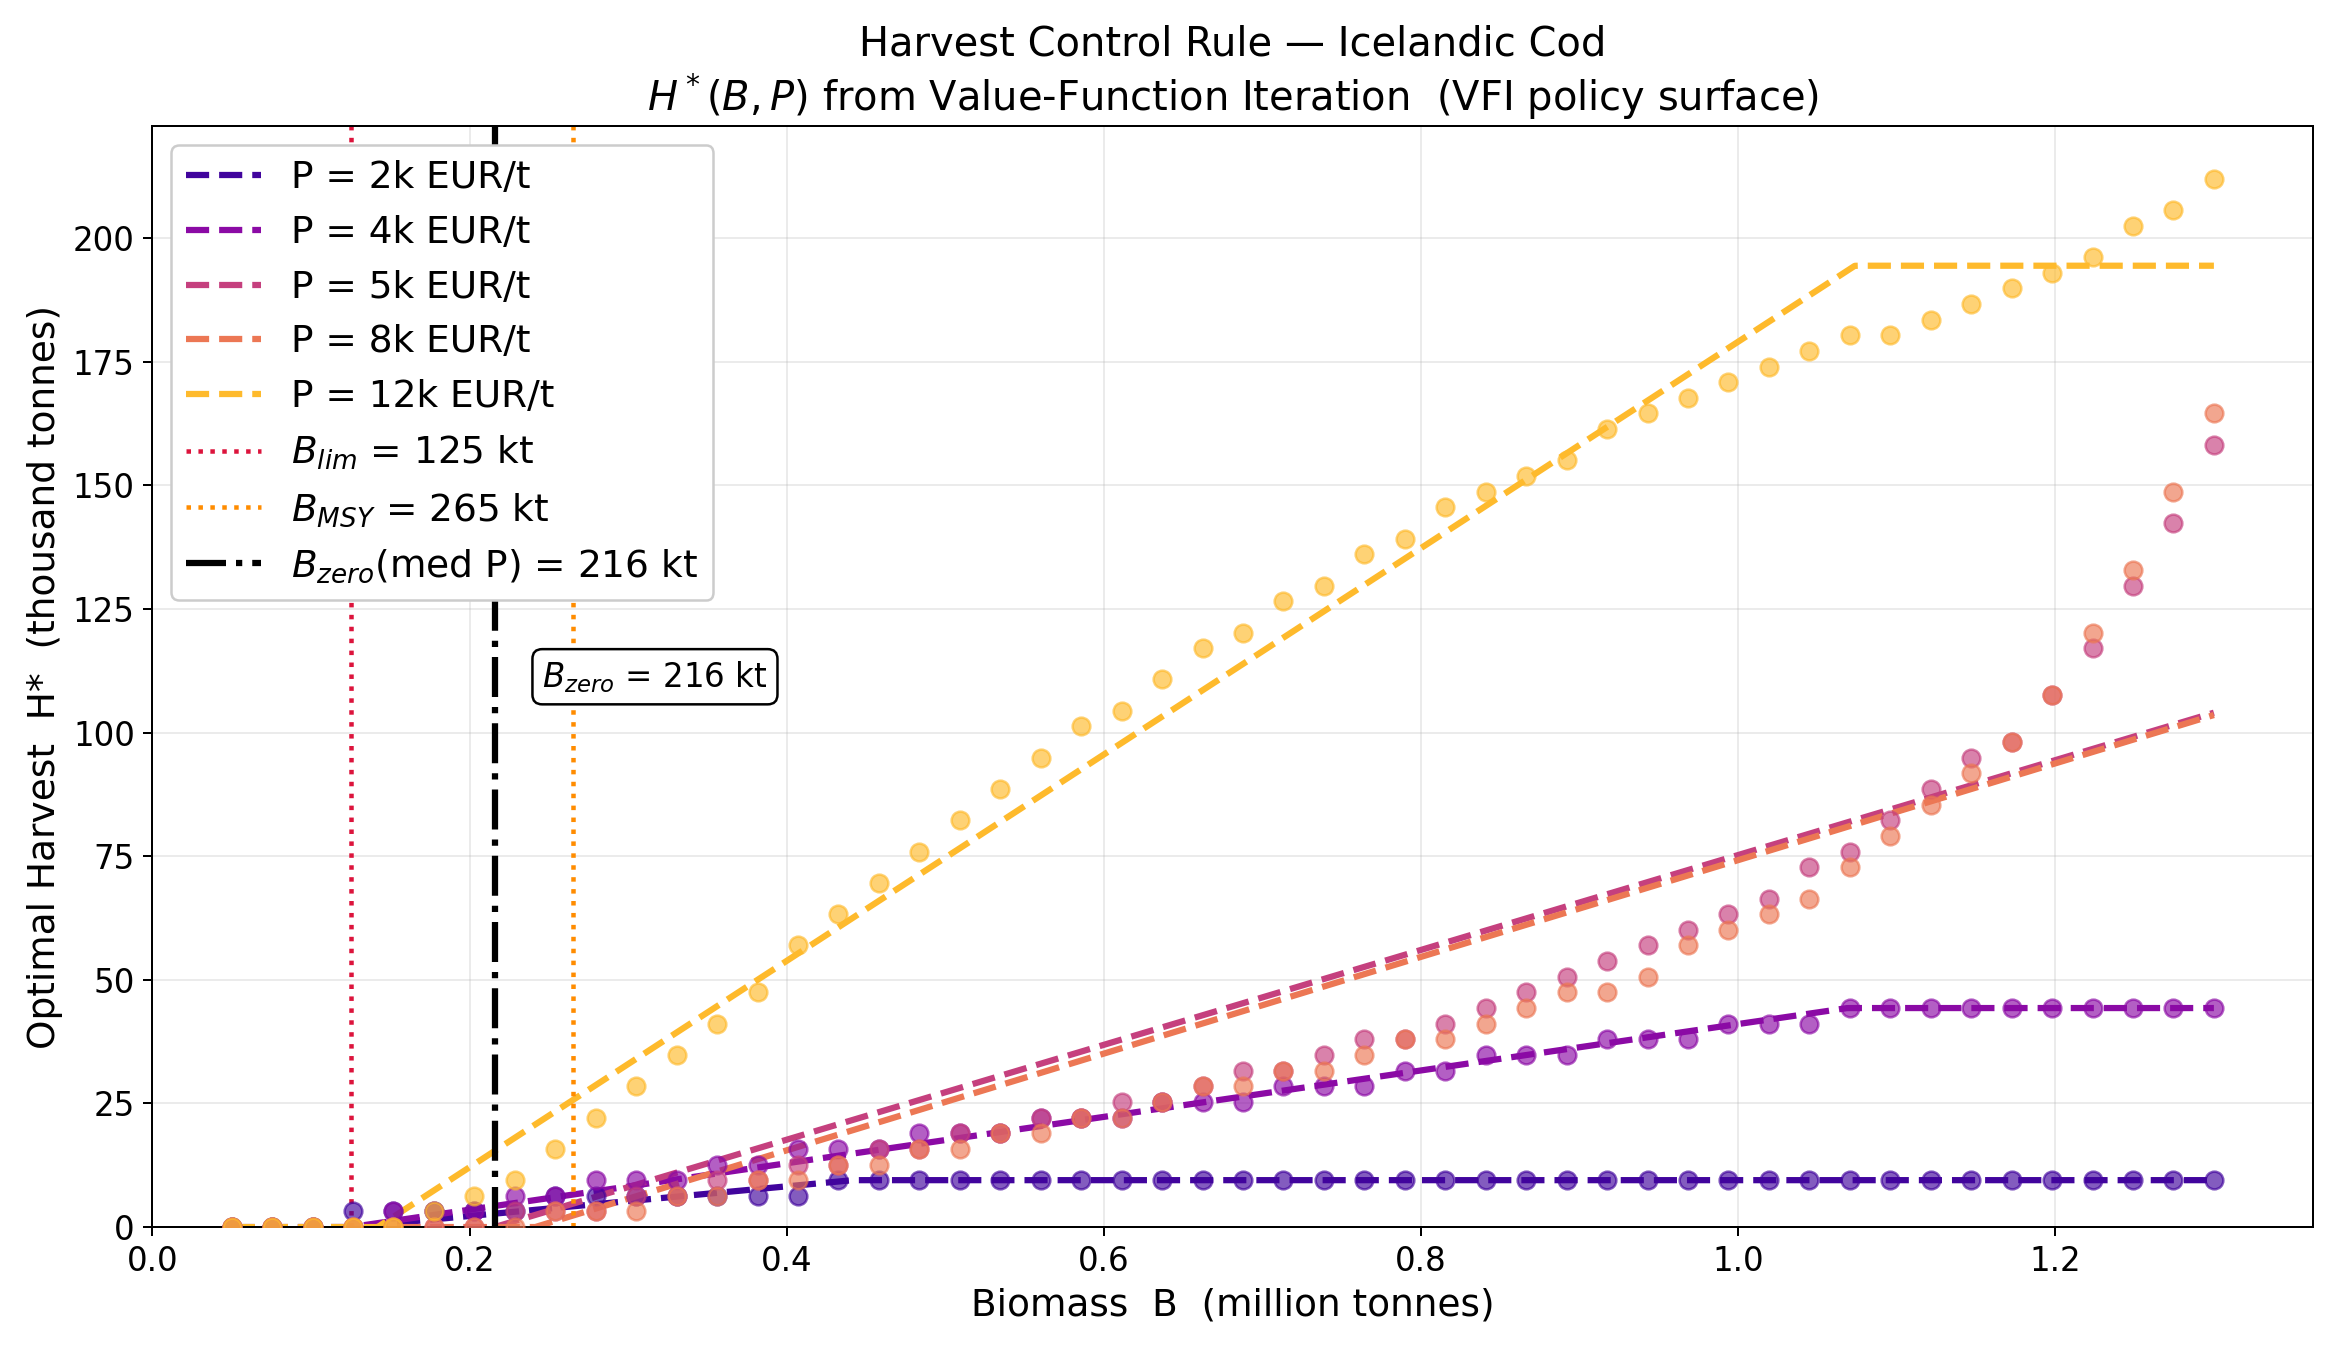
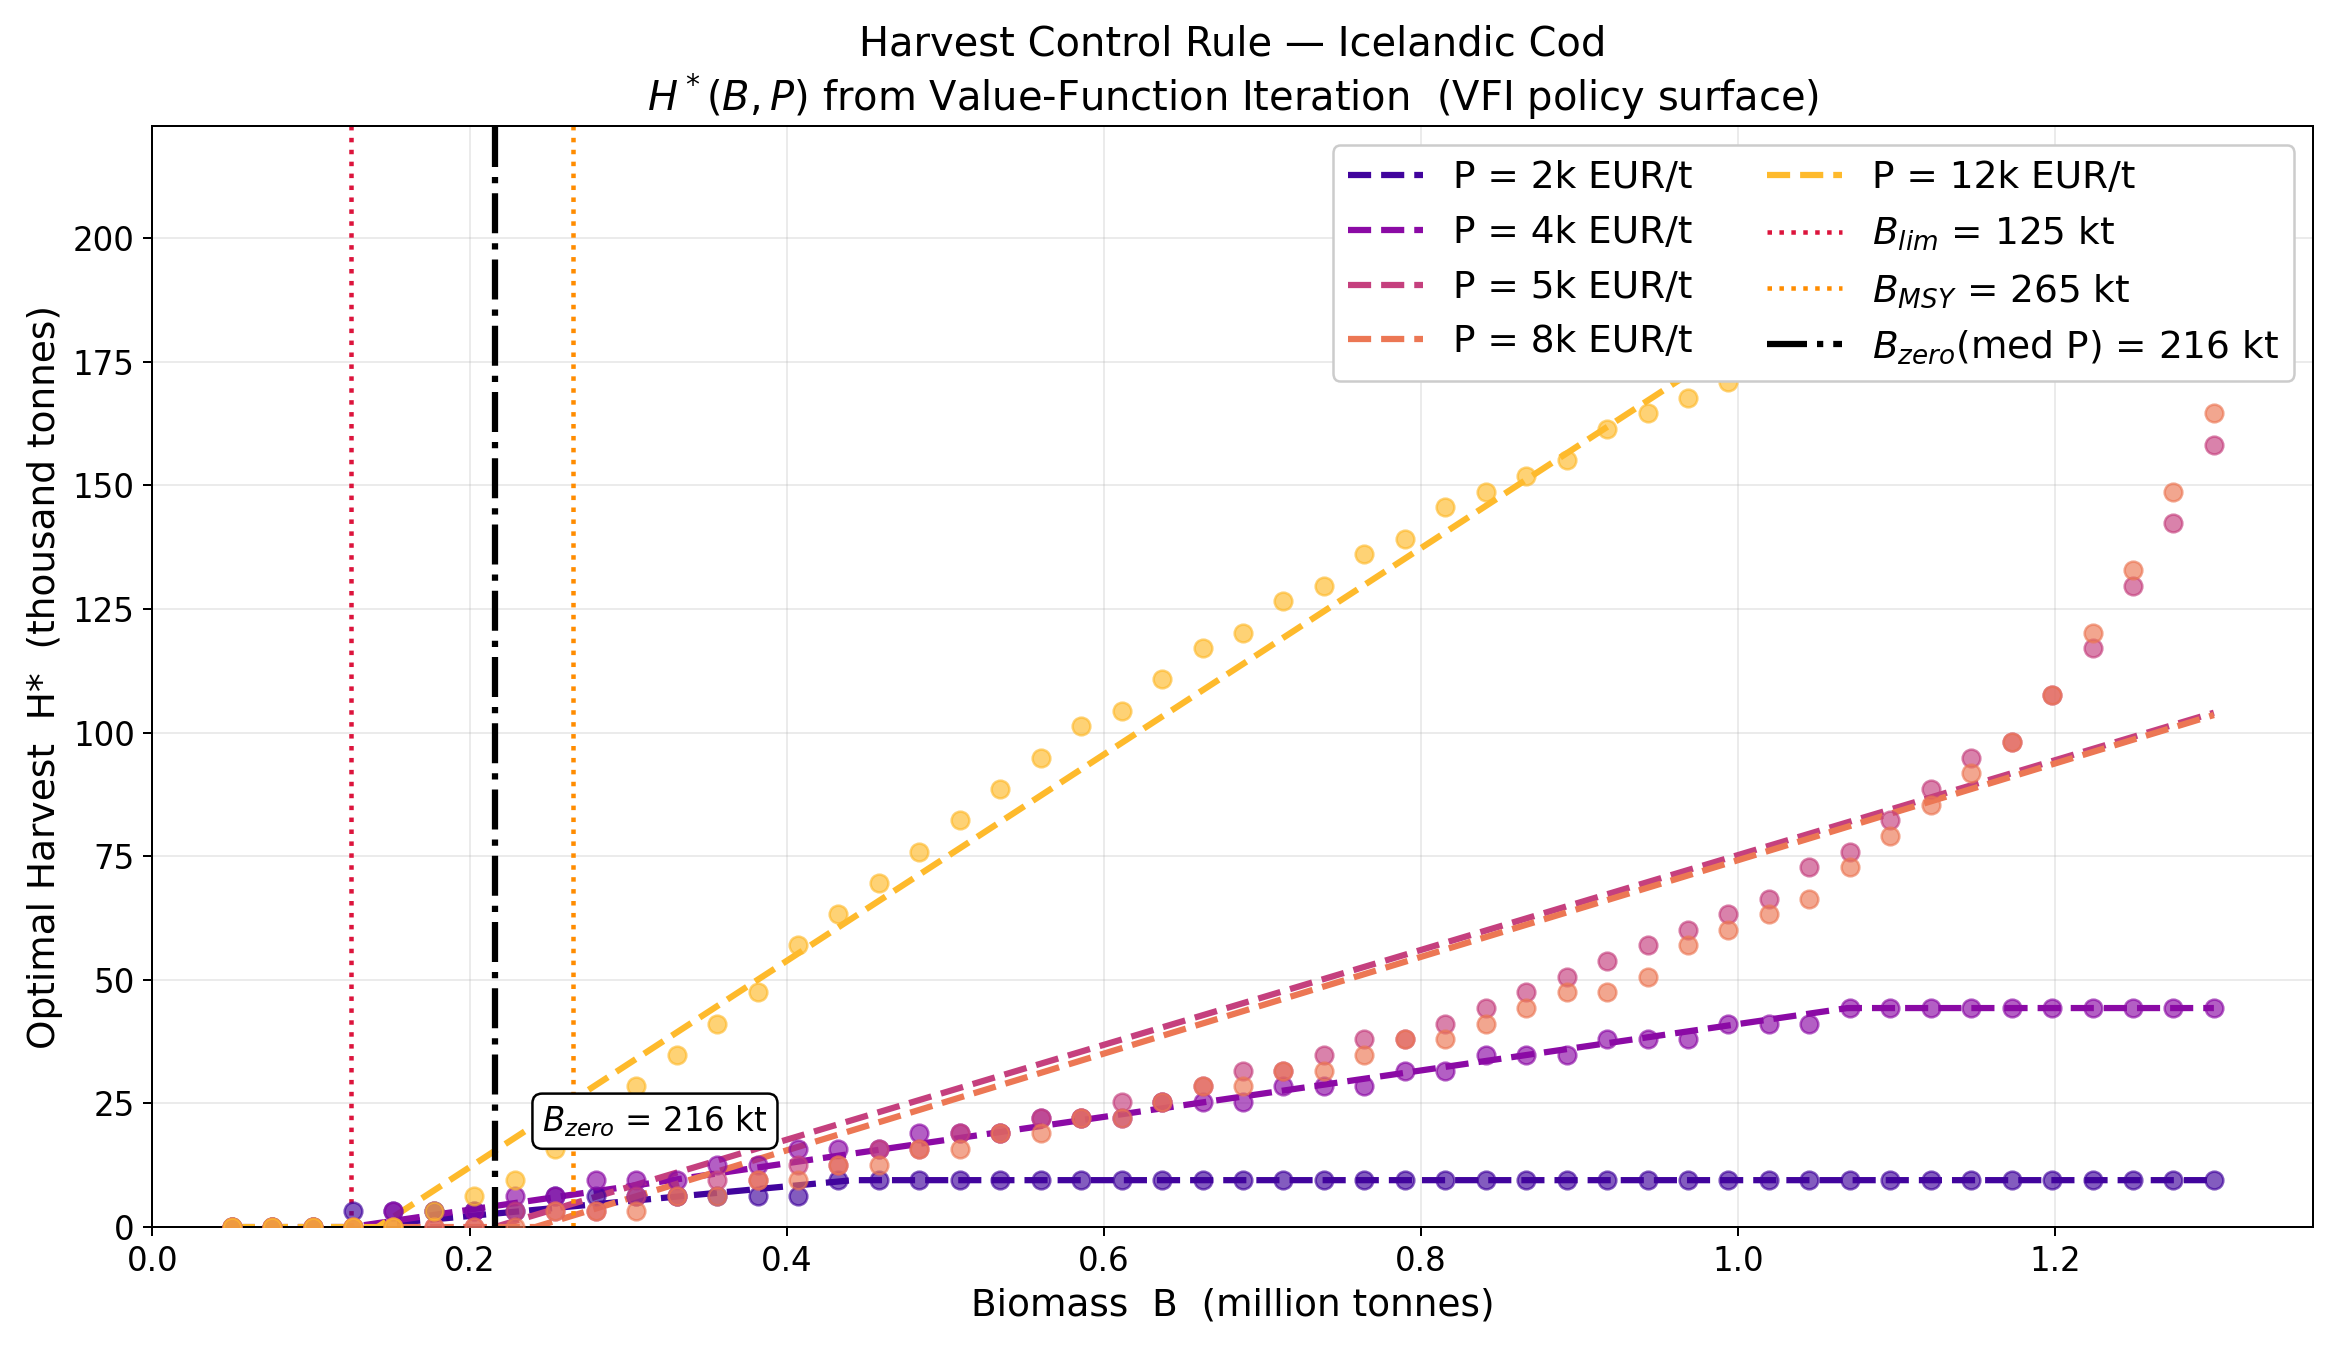
Legend 2-col upper right, B_zero label at bottom — fix overlap

diff --git a/hcr.py b/hcr.py
@@ -172,12 +172,12 @@ def plot_hcr(hcr_params, H_star, B_grid, P_grid, p=PARAMS):
         B_zero_med / 1e6, color="black", linestyle="-.", lw=2.5,
         label=f"$B_{{zero}}$(med P) = {B_zero_med/1e3:.0f} kt",
     )
-    # Annotation mid-height, to the right of the line
+    # Annotation near bottom, to the right of the line
     ax.text(
-        B_zero_med / 1e6 + 0.03, 0.50,
+        B_zero_med / 1e6 + 0.03, 0.08,
         f"$B_{{zero}}$ = {B_zero_med/1e3:.0f} kt",
         transform=ax.get_xaxis_transform(),
-        fontsize=13, color="black", va="center",
+        fontsize=13, color="black", va="bottom",
         bbox=dict(boxstyle="round,pad=0.3", fc="white", ec="black", alpha=1.0),
     )
 
@@ -190,7 +190,7 @@ def plot_hcr(hcr_params, H_star, B_grid, P_grid, p=PARAMS):
         fontsize=16,
     )
     ax.tick_params(labelsize=13)
-    ax.legend(fontsize=15, loc="upper left", framealpha=1.0, facecolor="white")
+    ax.legend(fontsize=15, loc="upper right", ncol=2, framealpha=1.0, facecolor="white")
     ax.grid(True, alpha=0.25)
     ax.set_xlim(left=0)
     ax.set_ylim(bottom=0)
